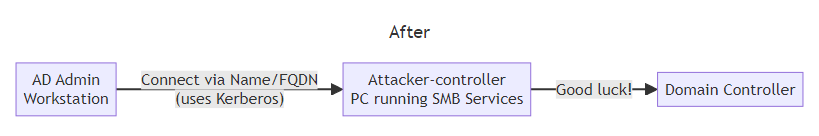
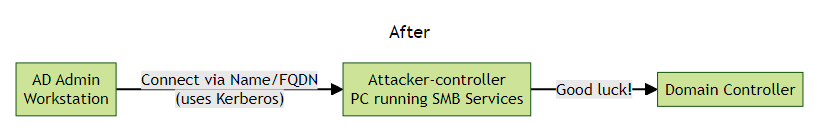
Added forest theme.

Changed region(s): [[0.0, 0.4412, 1.0, 0.8824], [0.2137, 0.6765, 0.3663, 0.7647], [0.4579, 0.1765, 0.5189, 0.2941]]

diff --git a/diagrams/NoNTLM-After.md b/diagrams/NoNTLM-After.md
@@ -2,6 +2,11 @@
 ---
 title: After
 ---
+%%{
+  init: {
+    'theme': 'forest'
+  }
+}%%
 flowchart LR
   ADAPC[AD Admin\nWorkstation] -- Connect via Name/FQDN\n(uses Kerberos) --> AttackerPC[Attacker-controller\nPC running SMB Services]
   AttackerPC -- Good luck! --> DC[Domain Controller]

diff --git a/diagrams/NoNTLM-Before.md b/diagrams/NoNTLM-Before.md
@@ -2,6 +2,11 @@
 ---
 title: Before
 ---
+%%{
+  init: {
+    'theme': 'forest'
+  }
+}%%
 flowchart LR
   ADAPC[AD Admin\nWorkstation] -- Connect via IP\n(uses NTLM) --> AttackerPC[Attacker-controller\nPC running SMB Services]
   AttackerPC -- Sends NTLM Hash --> DC[Domain Controller]
